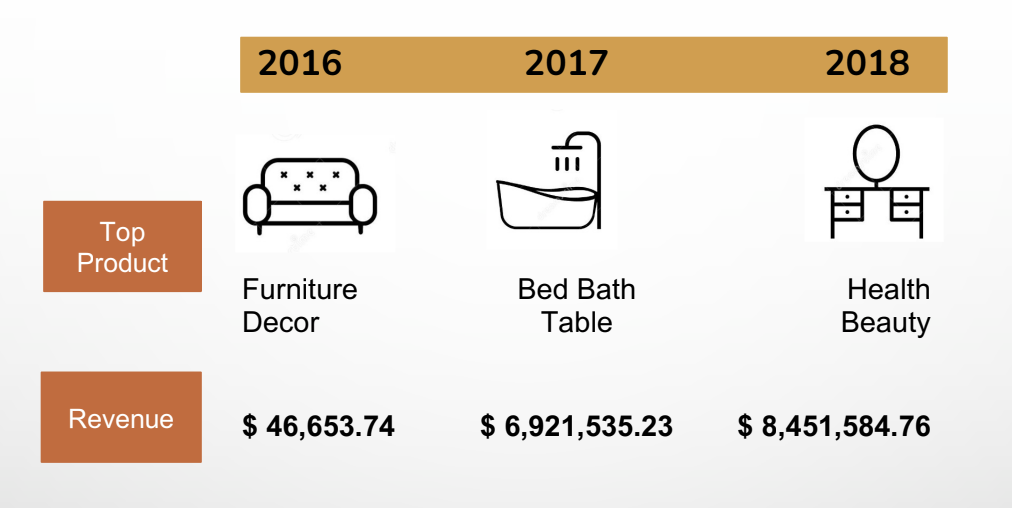
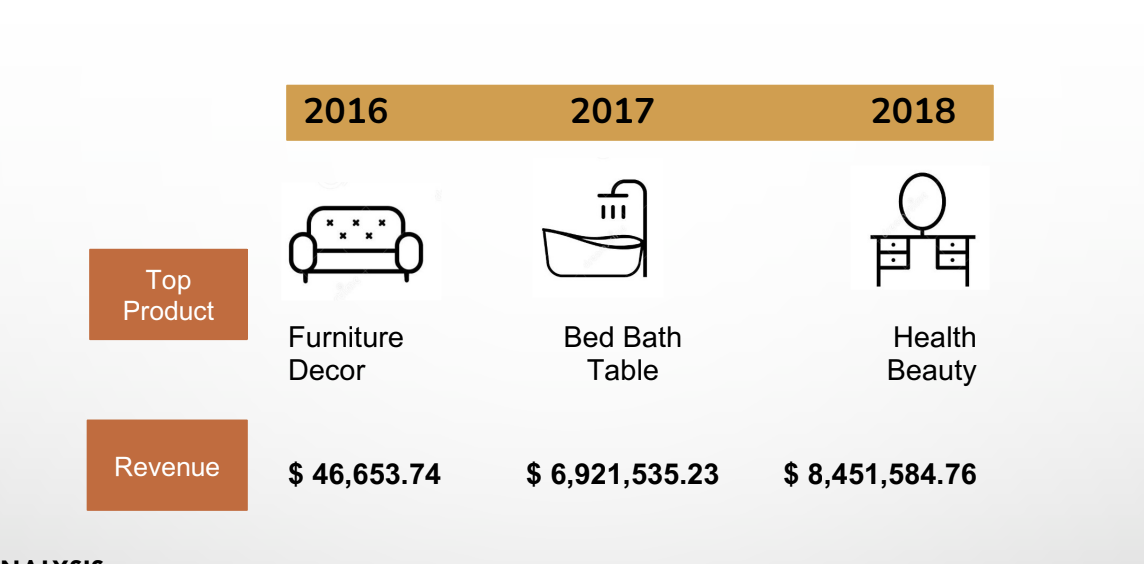
minor update

diff --git a/index.html b/index.html
@@ -28,12 +28,13 @@
     <div class="container">
         <!--💡UPDATE: Change to your name and title-->
         <h1>Rifky Ramdhani</h1>
-        <p>Data Engineer | Data Analytics</p>
+        <p>Data Engineer | Data Analytics | Malang, East Java, Indonesia</p>
         <div class="social-links">
             <!--💡UPDATE: Add your social media links and CV file-->
             <a href="https://www.linkedin.com/in/rifkyramdhani/" target="_blank" title="LinkedIn"><i class="fab fa-linkedin"></i></a>
             <a href="https://github.com/rifkyramdhani" target="_blank" title="GitHub"><i class="fab fa-github"></i></a>
-            <a href="https://drive.google.com/drive/folders/1AmfNw2kJ1szqac4VIaiy7jh0TxM3jcDi?usp=share_link" download title="Download CV"><i class="fas fa-file-arrow-down"></i></a>
+            <a href="mailto:rifkyramdhani@gmail.com" title="Email"><i class="fas fa-envelope"></i></a>
+            <a href="https://drive.google.com/drive/folders/1AmfNw2kJ1szqac4VIaiy7jh0TxM3jcDi?usp=share_link" download title="Download CV"><i class="fas fa-file-pdf"></i></a>
         </div>
     </div>
 </header>
@@ -59,7 +60,7 @@
         <div class="about-content">
 
             <div class="about-image">
-                <img src="assets/images/profile-placeholder.jpeg"
+                <img src="assets/images/profile.jpeg"
                      alt="Rifky Ramdhani"
                      class="profile-photo">
             </div>
@@ -105,9 +106,9 @@
 
             <!-- Project 2 -->
             <div class="project-card">
-                <img src="assets/images/Business-Performance-with-SQL.png" alt="Analyzing e-Commerce Business Performance with SQL Preview">
+                <img src="assets/images/Business-Performance-with-SQL.png" alt="Analyzing E-Commerce Business Performance with SQL Preview">
                 <div class="project-card-content">
-                    <h3>Analyzing e-Commerce Business Performance with SQL</h3>
+                    <h3>Analyzing E-Commerce Business Performance with SQL</h3>
                     <p>Performed an e-commerce business performance analysis using PostgreSQL by developing SQL queries to evaluate customer growth, user engagement, purchasing behavior, product quality, and payment preferences through key business metrics.</p>
                     <div class="project-buttons">
                         <a href="https://drive.google.com/file/d/1aOqiv_a-ct-bXiA8jLmUvGvlRCrjfdrF/view" target="_blank" class="btn">Documentation</a>
@@ -118,9 +119,9 @@
 
             <!-- Project 3 -->
             <div class="project-card">
-                <img src="assets/images/rakamin-project.png" alt="Machine Learning: e-Commerce Customers Churn Analysis and Prediction">
+                <img src="assets/images/rakamin-project.png" alt="Machine Learning: E-Commerce Customers Churn Analysis and Prediction">
                 <div class="project-card-content">
-                    <h3>Machine Learning: e-Commerce Customers Churn Analysis and Prediction</h3>
+                    <h3>Machine Learning: E-Commerce Customers Churn Analysis and Prediction</h3>
                     <p>Built a customer churn prediction model using Python to identify customers at risk of leaving an e-commerce platform. Applied the complete machine learning workflow from data preparation to model evaluation.</p>
                     <div class="project-buttons">
                         <a href="https://drive.google.com/file/d/1MjDdBDcV201zsV56D28MeTl00OQ1WZvZ/view" target="_blank" class="btn">Documentation</a>
